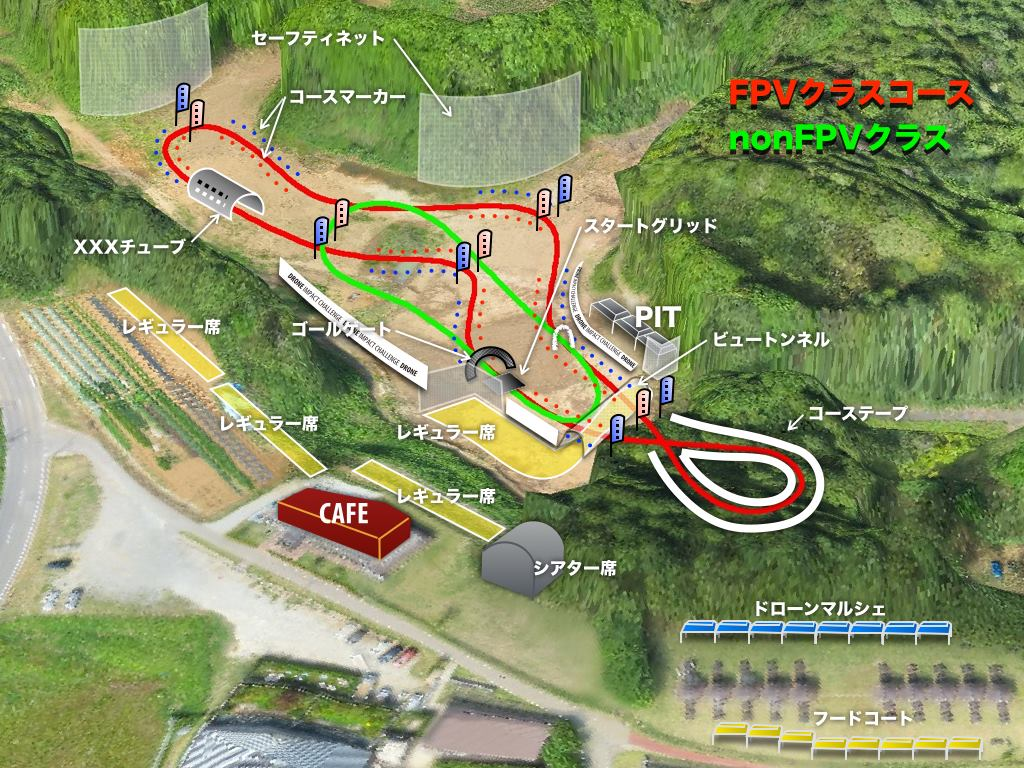
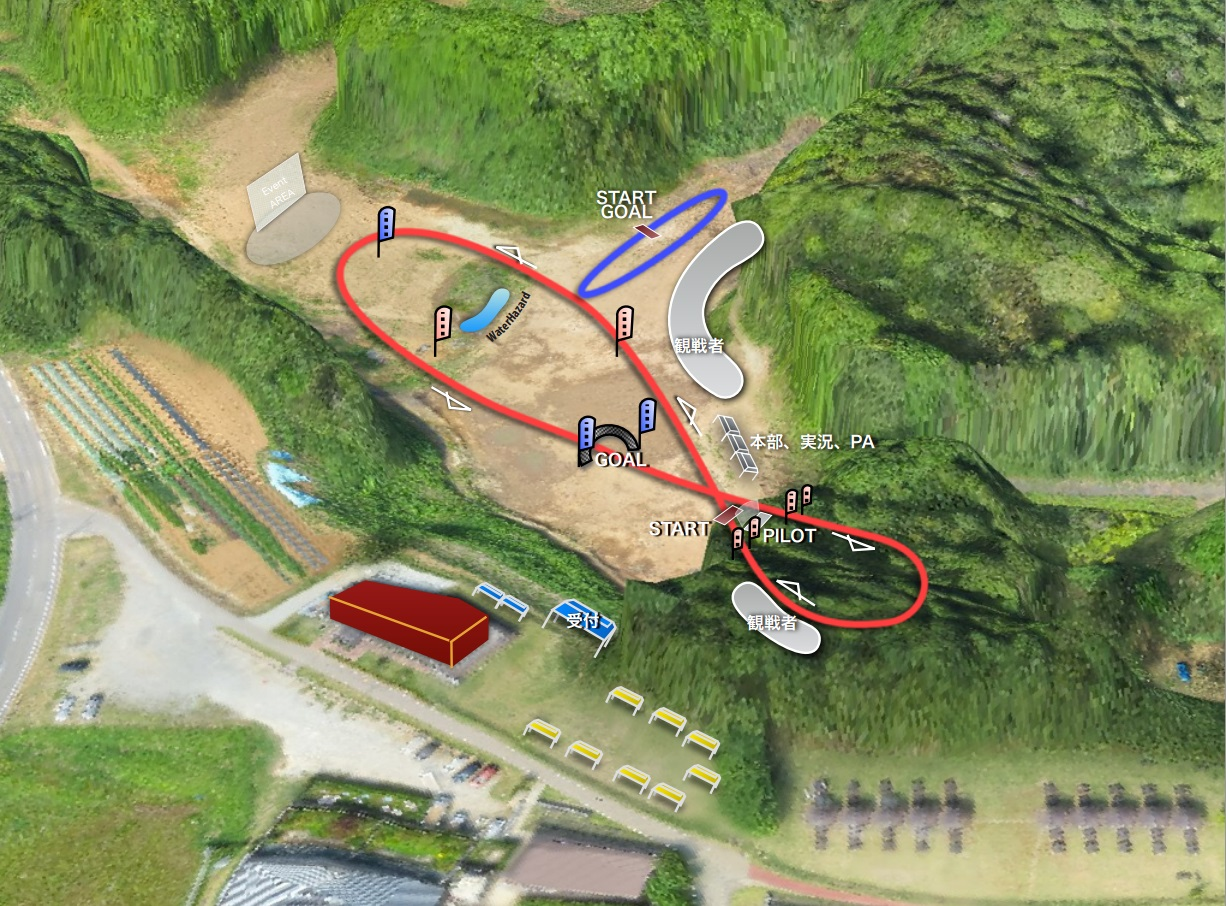
map再掲載

diff --git a/rules_jp.html b/rules_jp.html
@@ -79,9 +79,9 @@
     <div class="container privacy-terms">
         <div class="row">
             <div class="col-md-12">
-                    <!--
+                    
 					<div class="img-responsive wow fadeInUp hidden-xs" align="center"><img src="img/corse.jpg" alt=""><br>コースマップ及び会場図は変更になる場合があります。</div>
-					-->
+					
                 <hr>
                 <h2 class="wow fadeInUp">レースクラス</h2>
                 <ul class="wow fadeInUp member_produce">
